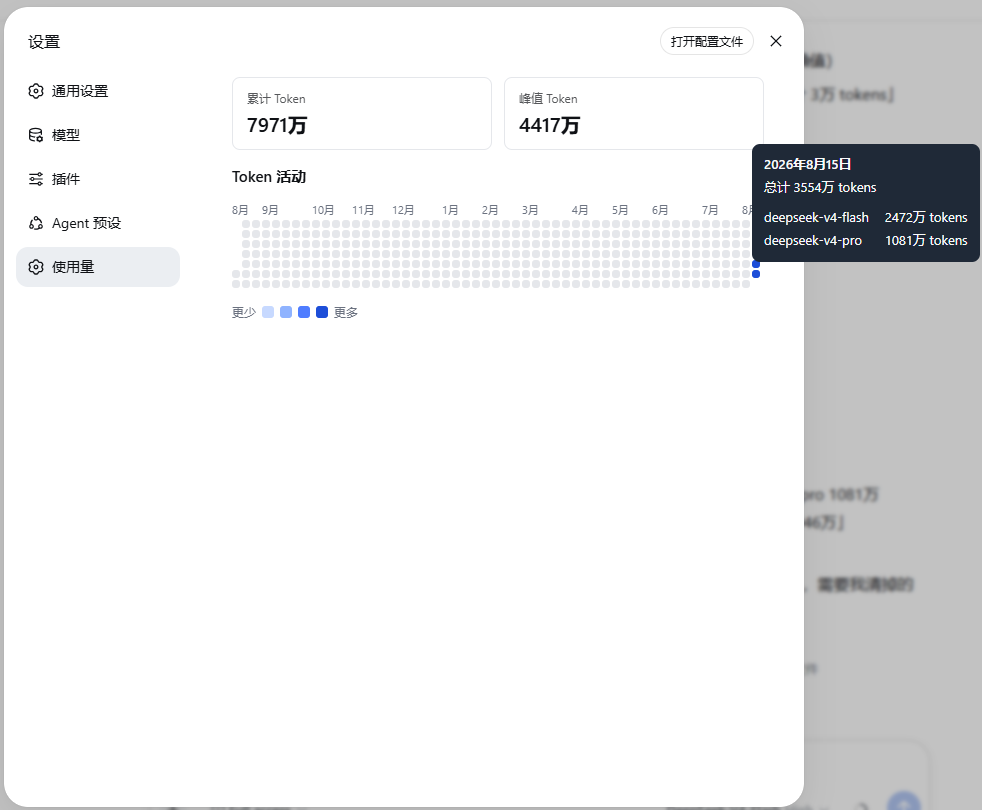
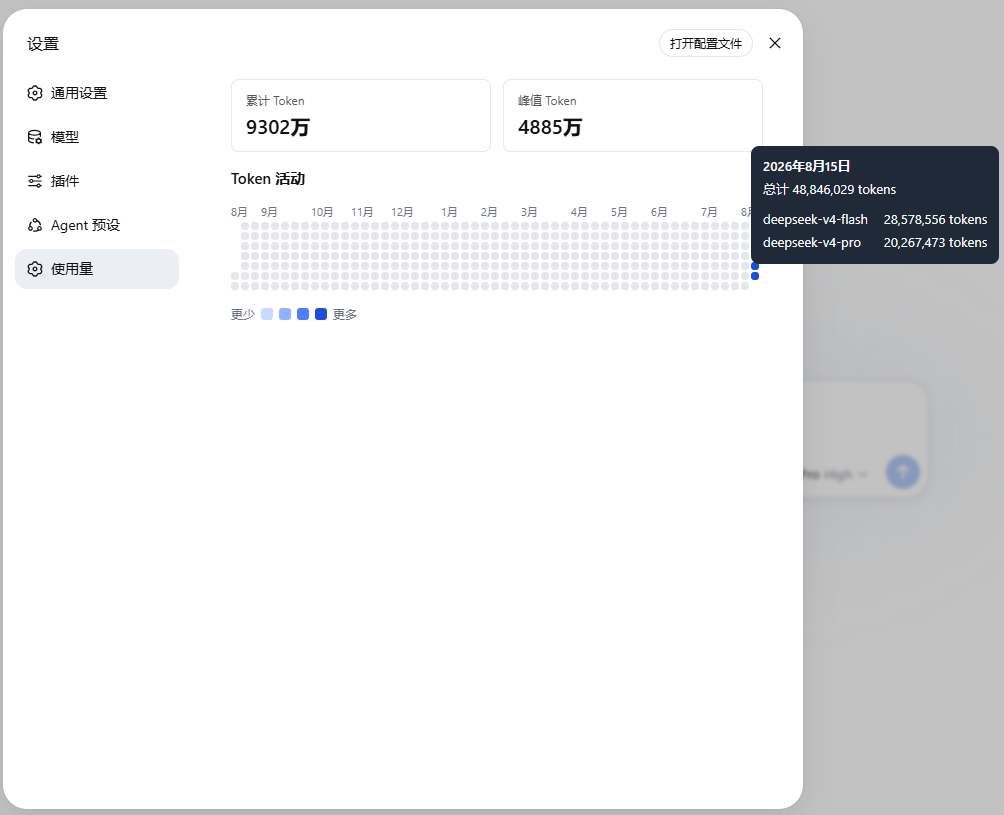
feat: Refresh the summary whenever the Usage section is opened and prevent stale responses from overwriting newer data.

diff --git a/packages/ui-token-activity/src/client/store.ts b/packages/ui-token-activity/src/client/store.ts
@@ -26,6 +26,8 @@ export class TokenActivityStore {
   private readonly listeners = new Set<() => void>()
   private pollTimer: ReturnType<typeof setTimeout> | undefined
   private disposed = false
+  /** Monotonic request id: only the latest fetch may publish its result. */
+  private generation = 0
 
   constructor(options: TokenActivityStoreOptions) {
     this.fetchSummary = options.fetchSummary
@@ -43,15 +45,16 @@ export class TokenActivityStore {
 
   /** Load once; schedules polling while a backfill is running. */
   async load(): Promise<void> {
+    const generation = ++this.generation
     if (this.disposed) return
     try {
       const summary = await this.fetchSummary()
-      if (this.disposed) return
+      if (this.disposed || generation !== this.generation) return
       this.status = { kind: 'ready', summary }
       this.emit()
       this.schedulePollIfNeeded(summary)
     } catch (error) {
-      if (this.disposed) return
+      if (this.disposed || generation !== this.generation) return
       this.status = { kind: 'error', message: error instanceof Error ? error.message : String(error) }
       this.emit()
     }
@@ -62,6 +65,35 @@ export class TokenActivityStore {
     this.status = { kind: 'loading' }
     this.emit()
     void this.load()
+  }
+
+  /**
+   * Silently re-fetch the summary while the section is being viewed. On
+   * success the ready snapshot is replaced in place (no loading flash); a
+   * transient failure keeps the current view so an already-rendered heatmap is
+   * never blanked. Called by the section on every mount.
+   */
+  refresh(): void {
+    void this.reloadSilently()
+  }
+
+  private async reloadSilently(): Promise<void> {
+    const generation = ++this.generation
+    if (this.disposed) return
+    try {
+      const summary = await this.fetchSummary()
+      if (this.disposed || generation !== this.generation) return
+      this.status = { kind: 'ready', summary }
+      this.emit()
+      this.schedulePollIfNeeded(summary)
+    } catch (error) {
+      if (this.disposed || generation !== this.generation) return
+      // A transient failure must not blank a rendered heatmap; only surface an
+      // error when there is nothing to show yet.
+      if (this.status.kind === 'ready') return
+      this.status = { kind: 'error', message: error instanceof Error ? error.message : String(error) }
+      this.emit()
+    }
   }
 
   private schedulePollIfNeeded(summary: TokenActivitySummary): void {

diff --git a/packages/ui-token-activity/tests/store.spec.ts b/packages/ui-token-activity/tests/store.spec.ts
@@ -74,4 +74,73 @@ describe('TokenActivityStore (FR-06)', () => {
     store.dispose()
     vi.useRealTimers()
   })
+
+  it('refresh re-fetches without flashing a loading state', async () => {
+    let tokens = 1
+    const store = new TokenActivityStore({
+      fetchSummary: async () => {
+        const value = summary()
+        value.metrics.totalTokens = tokens
+        return value
+      },
+    })
+    await store.load()
+    expect(store.getSnapshot().kind).toBe('ready')
+
+    tokens = 2
+    store.refresh()
+    // No loading flash: the snapshot stays ready synchronously.
+    expect(store.getSnapshot().kind).toBe('ready')
+    await vi.waitFor(() => {
+      const snap = store.getSnapshot()
+      expect(snap.kind === 'ready' && snap.summary.metrics.totalTokens).toBe(2)
+    })
+  })
+
+  it('refresh keeps the current ready view on a transient failure', async () => {
+    let calls = 0
+    const store = new TokenActivityStore({
+      fetchSummary: async () => {
+        calls += 1
+        if (calls >= 2) throw new Error('transient')
+        return summary()
+      },
+    })
+    await store.load()
+    expect(store.getSnapshot().kind).toBe('ready')
+    const before = store.getSnapshot()
+
+    store.refresh()
+    await vi.waitFor(() => expect(calls).toBe(2))
+    expect(store.getSnapshot()).toBe(before)
+  })
+
+  it('drops a stale refresh result when a newer refresh supersedes it', async () => {
+    let resolveStale: (value: TokenActivitySummary) => void = () => {}
+    const stale = new Promise<TokenActivitySummary>(resolve => { resolveStale = resolve })
+    const fresh = summary()
+    fresh.metrics.totalTokens = 999
+    let calls = 0
+    const store = new TokenActivityStore({
+      fetchSummary: async () => {
+        calls += 1
+        if (calls === 1) return summary()
+        if (calls === 2) return stale
+        return fresh
+      },
+    })
+    await store.load()
+
+    store.refresh() // hangs on `stale`
+    store.refresh() // resolves immediately with `fresh`
+    await vi.waitFor(() => {
+      const snap = store.getSnapshot()
+      expect(snap.kind === 'ready' && snap.summary.metrics.totalTokens).toBe(999)
+    })
+
+    resolveStale(summary()) // the superseded result lands late
+    await new Promise(resolve => setTimeout(resolve, 0))
+    const snap = store.getSnapshot()
+    expect(snap.kind === 'ready' && snap.summary.metrics.totalTokens).toBe(999)
+  })
 })

diff --git a/packages/ui-token-activity/tests/TokenActivitySection.spec.tsx b/packages/ui-token-activity/tests/TokenActivitySection.spec.tsx
@@ -1,0 +1,60 @@
+// @vitest-environment jsdom
+import { render, waitFor } from '@testing-library/react'
+import { describe, expect, it, vi } from 'vitest'
+import { TokenActivityStore } from '../src/client/store.ts'
+import { TokenActivitySection } from '../src/client/TokenActivitySection.tsx'
+import type { LocaleFace } from '../src/client/TokenActivitySection.tsx'
+import type { TokenActivityKey, TokenActivityTranslate } from '../src/client/locales.ts'
+import type { TokenActivitySummary } from '../src/client/contract.ts'
+
+function summary(): TokenActivitySummary {
+  return {
+    timeZone: 'UTC',
+    generatedAt: 0,
+    range: { from: '2026-08-08', to: '2026-08-14' },
+    metrics: {
+      totalTokens: 100,
+      peakDailyTokens: 100,
+      longestActiveChatMs: 0,
+      currentStreakDays: 1,
+      longestStreakDays: 1,
+      unreportedCalls: 0,
+    },
+    days: [{ date: '2026-08-14', totalTokens: 100, models: [{ provider: 'openai', model: 'gpt-5.6', tokens: 100 }] }],
+    backfill: { state: 'complete', completedSessions: 0, totalSessions: 0, failedSessions: 0 },
+  }
+}
+
+function makeT(): TokenActivityTranslate {
+  return (key: TokenActivityKey) => key
+}
+
+function makeLocale(): LocaleFace {
+  const listeners = new Set<() => void>()
+  return {
+    getSnapshot: () => ({ active: 'zh-CN' }),
+    subscribe: (listener) => {
+      listeners.add(listener)
+      return () => { listeners.delete(listener) }
+    },
+  }
+}
+
+describe('TokenActivitySection (view-refresh)', () => {
+  it('refreshes the store every time the section is viewed (mounted)', async () => {
+    const fetchSummary = vi.fn(async () => summary())
+    const store = new TokenActivityStore({ fetchSummary })
+    await store.load()
+    expect(fetchSummary).toHaveBeenCalledTimes(1)
+
+    const props = { store, t: makeT(), locale: makeLocale() }
+    const view = render(<TokenActivitySection key="view-1" {...props} />)
+    await waitFor(() => expect(fetchSummary).toHaveBeenCalledTimes(2))
+
+    // Viewing again (re-mount with a new key) triggers another refresh.
+    view.rerender(<TokenActivitySection key="view-2" {...props} />)
+    await waitFor(() => expect(fetchSummary).toHaveBeenCalledTimes(3))
+
+    view.unmount()
+  })
+})

diff --git a/packages/token-activity/src/core/format.ts b/packages/token-activity/src/core/format.ts
@@ -24,15 +24,15 @@ function formatScaled(value: number, divisor: number, unit: string): string {
 }
 
 /**
- * Compact token count (FR-02): 万/亿 for Chinese, K/M/B otherwise. The exact
- * integer always stays available through {@link formatInteger} for tooltips
- * and accessible names.
+ * Compact token count (FR-02): 万/亿 for Chinese (whole 万, up to two-decimal
+ * 亿), K/M/B otherwise. The exact integer always stays available through
+ * {@link formatInteger} for tooltips and accessible names.
  */
 export function formatCompactTokens(value: number, locale: string): string {
   if (!Number.isFinite(value) || value < 0) return formatInteger(0, locale)
   if (isZhLocale(locale)) {
     if (value >= 100_000_000) return formatScaled(value, 100_000_000, '亿')
-    if (value >= 10_000) return formatScaled(value, 10_000, '万')
+    if (value >= 10_000) return `${Math.round(value / 10_000)}万`
     return formatInteger(value, locale)
   }
   if (value >= 1_000_000_000) return formatScaled(value, 1_000_000_000, 'B')

diff --git a/packages/ui-token-activity/src/client/TokenActivitySection.tsx b/packages/ui-token-activity/src/client/TokenActivitySection.tsx
@@ -7,7 +7,7 @@
  * @module @snownightt/dsh-ui-token-activity/client/TokenActivitySection
  */
 
-import { useSyncExternalStore } from 'react'
+import { useEffect, useSyncExternalStore } from 'react'
 import type { TokenActivityStore } from './store.ts'
 import type { TokenActivityTranslate } from './locales.ts'
 import { TokenActivityPage } from './TokenActivityPage.tsx'
@@ -33,5 +33,13 @@ export function TokenActivitySection({ store, t, locale }: TokenActivitySectionI
     listener => locale.subscribe(listener),
     () => locale.getSnapshot().active,
   )
+
+  // The settings shell mounts this section only while it is the active,
+  // visible panel, so a mount is the "user is viewing the heatmap" signal:
+  // refresh now instead of waiting for a page reload.
+  useEffect(() => {
+    store.refresh()
+  }, [store])
+
   return <TokenActivityPage status={status} locale={activeLocale} t={t} onRetry={() => store.retry()} />
 }

diff --git a/packages/token-activity/tests/format.spec.ts b/packages/token-activity/tests/format.spec.ts
@@ -27,7 +27,9 @@ describe('formatCompactTokens (FR-02, §7.3)', () => {
   it('uses 万/亿 for Chinese', () => {
     expect(formatCompactTokens(1_031_000_000, 'zh-CN')).toBe('10.31亿')
     expect(formatCompactTokens(2_100_000_000, 'zh-CN')).toBe('21亿')
-    expect(formatCompactTokens(1_284_000, 'zh-CN')).toBe('128.4万')
+    expect(formatCompactTokens(59_463_633, 'zh-CN')).toBe('5946万')
+    expect(formatCompactTokens(4_474_496, 'zh-CN')).toBe('447万')
+    expect(formatCompactTokens(1_284_000, 'zh-CN')).toBe('128万')
     expect(formatCompactTokens(9999, 'zh-CN')).toBe('9,999')
   })
 

diff --git a/packages/ui-token-activity/src/client/core/format.ts b/packages/ui-token-activity/src/client/core/format.ts
@@ -30,7 +30,7 @@ export function formatCompactTokens(value: number, locale: string): string {
   if (!Number.isFinite(value) || value < 0) return formatInteger(0, locale)
   if (isZhLocale(locale)) {
     if (value >= 100_000_000) return formatScaled(value, 100_000_000, '亿')
-    if (value >= 10_000) return formatScaled(value, 10_000, '万')
+    if (value >= 10_000) return `${Math.round(value / 10_000)}万`
     return formatInteger(value, locale)
   }
   if (value >= 1_000_000_000) return formatScaled(value, 1_000_000_000, 'B')

diff --git a/README.en.md b/README.en.md
@@ -1,6 +1,6 @@
 [中文](README.md) | **English**
 
-# DeepSeek Harness Token Consumption Heatmap Plugin
+# dsh-token-activity Token Consumption Heatmap Plugin
 
 [![License: MIT](https://img.shields.io/badge/license-MIT-green.svg)](LICENSE)
 
@@ -19,21 +19,6 @@
 ### Preview
 
 ![DeepSeek Harness Token Activity Heatmap Preview](docs/images/token-activity-preview.png)
-
----
-
-## Compatibility
-
-| Component | Verified version |
-| --- | --- |
-| DeepSeek Harness | `@deepseek-ai/dsh@0.1.0-rc.6` |
-| DSH source snapshot | [`47f943859bef`](https://github.com/deepseek-ai/deepseek-harness/commit/47f943859bef60e4160492346772ded9b24f765a) |
-| Plugin | `0.1.1` |
-| Node.js | `24.18.0` |
-| pnpm | `11.7.0` |
-| Last verified | `2026-08-15` |
-
-In the environment above, the plugin was verified to install and load successfully, expose the "Usage" entry in the Web settings page, backfill historical session Token data, and render the activity heatmap.
 
 ---
 
@@ -145,6 +130,22 @@ If installed from npm, run:
 dsh plugin --profile web remove @snownightt/dsh-token-activity-bundle
 ```
 Restart after uninstalling.
+
+---
+
+## Known Limitations
+
+This plugin derives Token usage from DeepSeek Harness **session logs**. It does not read an API provider's account billing records directly. Its cumulative value therefore means "Token usage recorded in Harness sessions," not provider-account usage. Always use the provider's official platform for charges, balances, and final billing.
+
+In the current version, the following situations may cause the plugin's statistics values to be inconsistent with the actual values on the official platform.:
+
+- Auxiliary model calls, such as automatic title generation and context compaction, may not be fully included in session-activity accounting.
+- DeepSeek native web search makes additional model calls, but its response usage is not currently persisted to this plugin's data source.
+- Failed, cancelled, or retried requests are counted only when Harness persisted their `usage` in the session log.
+- The displayed result can be temporarily incomplete while historical backfill is failing.
+- Calls made with the same API key by other applications, scripts, or services are outside the plugin's visibility.
+
+For ordinary logged session model calls, the plugin counts `input + output + cache read + cache write`. Future releases will expand coverage of auxiliary calls, but provider-specific billing rules, cache behavior, and available usage APIs can still differ from the official account data.
 
 ---
 

diff --git a/README.md b/README.md
@@ -1,6 +1,6 @@
 **中文** | [English](README.en.md)
 
-# DeepSeek Harness Token 消耗热力图插件
+# dsh-token-activity Token 消耗热力图插件
 
 [![License: MIT](https://img.shields.io/badge/license-MIT-green.svg)](LICENSE)
 
@@ -19,21 +19,6 @@
 ### 效果预览
 
 ![DeepSeek Harness Token 活动热力图效果预览](docs/images/token-activity-preview.png)
-
----
-
-## 兼容性
-
-| 项目 | 已验证版本 |
-| --- | --- |
-| DeepSeek Harness | `@deepseek-ai/dsh@0.1.0-rc.6` |
-| DSH 源码快照 | [`47f943859bef`](https://github.com/deepseek-ai/deepseek-harness/commit/47f943859bef60e4160492346772ded9b24f765a) |
-| 插件版本 | `0.1.1` |
-| Node.js | `24.18.0` |
-| pnpm | `11.7.0` |
-| 最后验证日期 | `2026-08-15` |
-
-上述环境已验证插件可以安装和加载，Web 设置页面能够显示「使用量」入口，并可完成历史会话 Token 数据回填及热力图展示。
 
 ---
 
@@ -148,7 +133,21 @@ dsh plugin --profile web remove @snownightt/dsh-token-activity-bundle
 
 ---
 
+## 已知限制
 
+本插件基于 DeepSeek Harness 的**会话日志**统计已记录的模型调用 Token，并不直接读取 API 提供商的账户账单。因此，插件显示的累计量应理解为「Harness 会话已记录 Token」，不能替代提供商平台的账户用量；涉及费用、余额或最终计费时，请始终以 API 提供商官方平台为准。
+
+在当前版本中，以下情况可能使插件统计值与官方平台现实的值不一致：
+
+- 自动标题生成、上下文压缩等辅助模型调用可能未完整计入会话活动统计；
+- 网页搜索会产生额外模型调用，但其响应 Token 用量目前不会写入本插件的统计来源；
+- 失败、取消或重试的请求只有在 Harness 会话日志中保存了 `usage` 时才会被统计；
+- 某个历史会话读取失败时，插件会跳过它，不影响其他会话继续统计；但该会话的 token 会缺失，直到之后成功重新回填。
+- API Key 被其他应用、脚本或服务使用的调用不在本插件的可见范围内。
+
+已写入日志的普通会话模型调用会按 `input + output + cache read + cache write` 统计。未来版本会逐步扩大辅助调用的覆盖范围，但不同提供商的账单口径、缓存规则和可用用量接口仍可能导致与官方账户数据存在差异。
+
+---
 
 ## PS
 目前仍处于开发中，各方面或许不够完善，欢迎大家提issue！谢谢喵！
